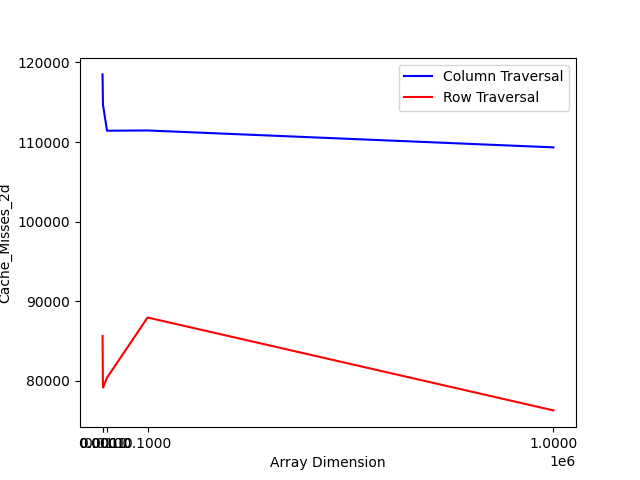
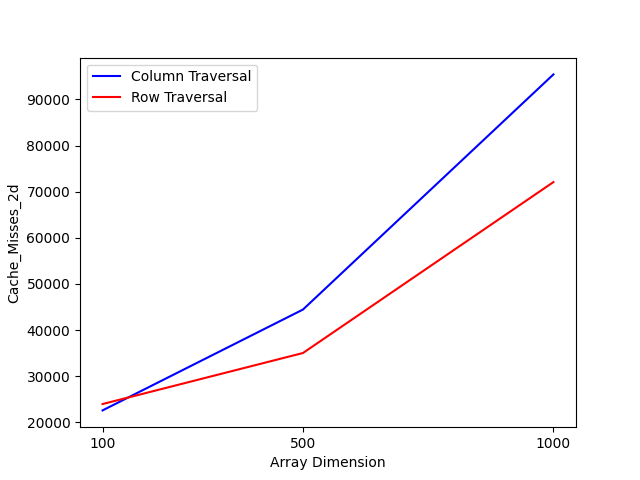
fixed graphs

diff --git a/ass4/stats.py b/ass4/stats.py
@@ -17,8 +17,12 @@ def gen_graph(name, column, row):
     for i in range(len(row)):
         rowData.append(float(row[i][index].strip().split(' ')[0].replace(',', '')))
 
-    #print(columnData, rowData)
-    dim_list = [100,1000,10000,100000,1000000]
+    print(columnData, rowData)
+    dim_list = [100, 500, 1000]
+
+    columnData.sort()
+    rowData.sort()
+    
     plt.figure()
     plt.ylabel(name)
     plt.xlabel('Array Dimension')
